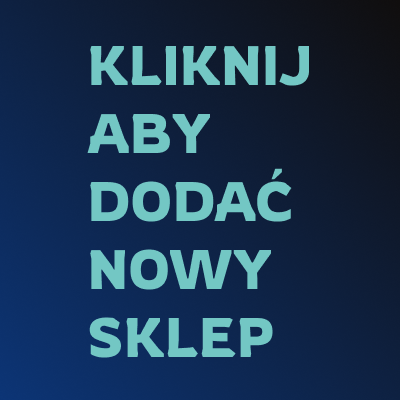
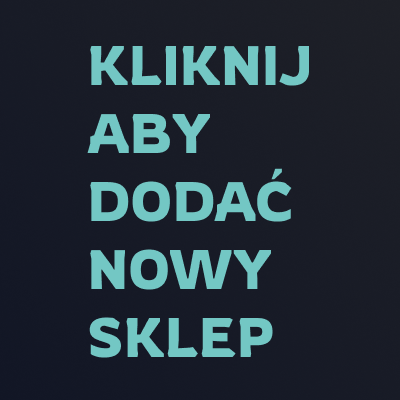
fav place all theme colors

diff --git a/components/FavPlaceElement.js b/components/FavPlaceElement.js
@@ -28,11 +28,27 @@ const FavPlaceElement = (props) => {
   };
 
   const dispatch = useDispatch();
-  let path = require("../assets/default_fav_element.png");
+  // let path = require(`../assets/default_fav_element_${scheme}.png`);
 
-  if (scheme === "dark") {
-    path = require("../assets/default_fav_element_dark.png");
+  let path = require("../assets/default_fav_element_dark.png");
+  switch (scheme) {
+    case "dark":
+      path = require("../assets/default_fav_element_dark.png");
+      break;
+    case "light":
+      path = require("../assets/default_fav_element_light.png");
+      break;
+    case "light_Blue":
+      path = require("../assets/default_fav_element_light_Blue.png");
+      break;
+    case "light_Pink":
+      path = require("../assets/default_fav_element_light_Pink.png");
+      break;
+    case "light_Gold":
+      path = require("../assets/default_fav_element_light_Gold.png");
+      break;
   }
+
   return (
     <TouchableOpacity
       onPress={() => {

diff --git a/constants/Colors.js b/constants/Colors.js
@@ -26,7 +26,6 @@ export default {
     primarySecond: "rgb(195,195,198)",
     drawerActive: "rgb(255,255,255)",
     backGroundOne: "rgba(10,12,19, 1)",
-    // backGroundOne: "rgba(20,2,9, 1)",
     backGround_one: "rgba(1,1,1, 0.93)",
     light: "rgba(255, 255, 255, 0)",
     backGroundList: "rgba(1, 1, 1,1)",
